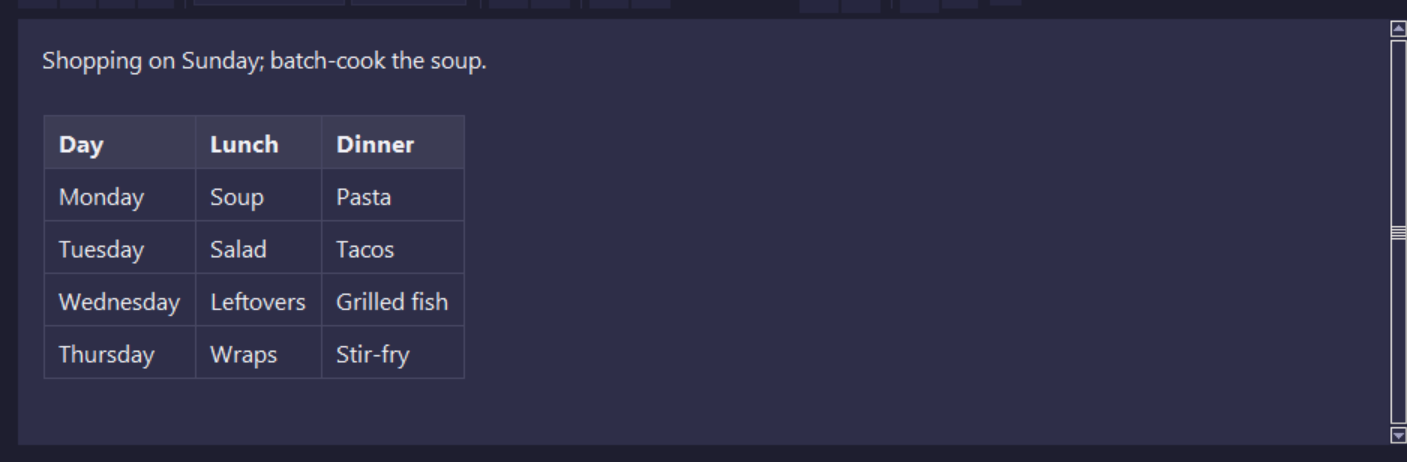
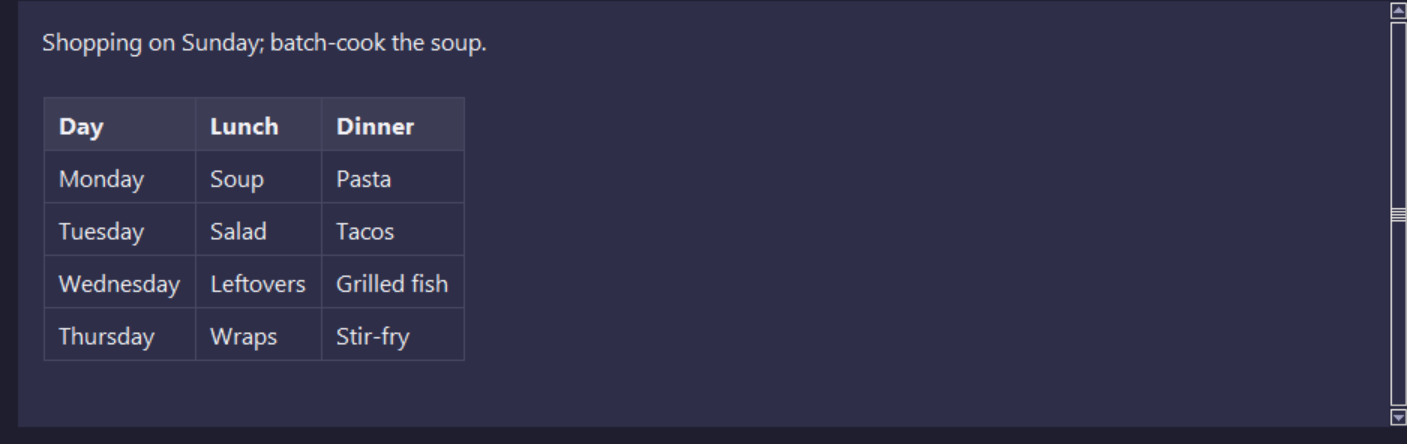
docs: the table and Settings pictures retaken, the format bar left out and the keyboard on the entry chosen
- tables.png took a strip of the format bar's buttons into its top: the
  bar sits closer than the 12 px margin above the text box. The picture
  is now cut at the box's own top, the margin kept on its other sides
  (a first try with 4 px all round cut the scrollbar in half).
- settings-overview.png showed the keyboard's ring on General with
  Statistics selected; retaken since b3bcafe, the ring is on Statistics.
  The light one was already so, and comes out the same.

Looked at, each, beside the one it replaces.

diff --git a/tools/doc_screenshots.py b/tools/doc_screenshots.py
@@ -623,7 +623,14 @@ def grouped_notes():
 def tables():
     """A table in a note: header row, aligned columns, the caption."""
     _table_note()
-    capture('tables', widgets=_editor_box('body_text'), pad=12)
+    # Cut at the text box's own top: the format bar sits closer than the
+    # margin above it, and a strip of its buttons came into the picture.
+    widgets = _editor_box('body_text')
+    box = None
+    if widgets:
+        left, _top, right, bottom = _box_of(widgets, 12)
+        box = (left, min(w.winfo_rooty() for w in widgets), right, bottom)
+    capture('tables', box=box)
 
 
 @scene('checklist')
